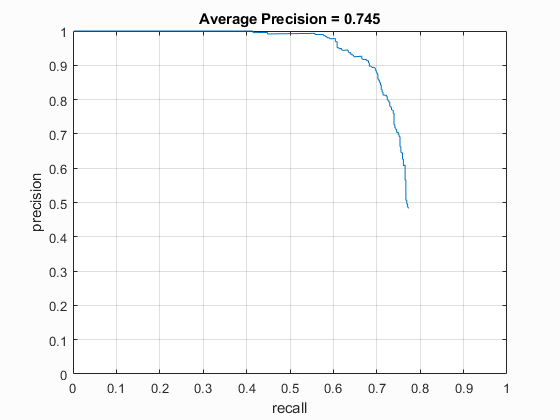
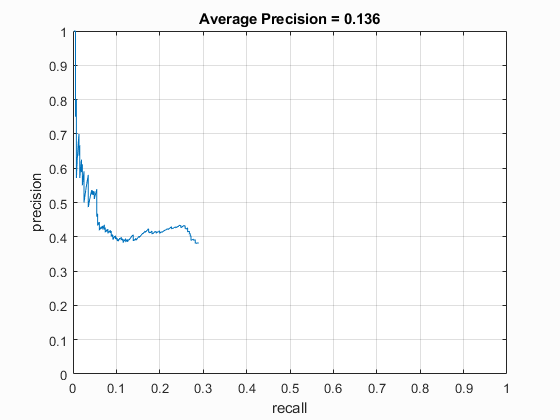
UPDATE: get_feature enhanced with OOP

diff --git a/get_features.m b/get_features.m
@@ -2,80 +2,20 @@ close all
 clear
 run('../vlfeat-0.9.21/toolbox/vl_setup')
 
+clf = Classifier;
+
 pos_imageDir = 'train_pos_images';
-pos_imageList = dir(sprintf('%s/*.jpg',pos_imageDir));
-pos_nImages = length(pos_imageList);
+[x_pos_train, pos_nImages] = clf.get_feature(pos_imageDir);
 
 valid_pos_imageDir = 'validate_pos_images';
-valid_pos_imageList = dir(sprintf('%s/*.jpg',valid_pos_imageDir));
-valid_pos_nImages = length(valid_pos_imageList);
+[x_pos_valid, valid_pos_nImages] = clf.get_feature(valid_pos_imageDir);
 
 neg_imageDir = 'train_neg_images';
-neg_imageList = dir(sprintf('%s/*.jpg',neg_imageDir));
-neg_nImages = length(neg_imageList);
+[x_neg_train, neg_nImages] = clf.get_feature(neg_imageDir);
 
 valid_neg_imageDir = 'validate_neg_images';
-valid_neg_imageList = dir(sprintf('%s/*.jpg',valid_neg_imageDir));
-valid_neg_nImages = length(valid_neg_imageList);
+[x_neg_valid, valid_neg_nImages] = clf.get_feature(valid_neg_imageDir);
 
-cellSize = 3;
-featSize = 31*12^2;
-
-x_pos_train = zeros(pos_nImages,featSize);
-for i=1:pos_nImages
-    im = im2single(imread(sprintf('%s/%s',pos_imageDir,pos_imageList(i).name)));
-    feat = vl_hog(im,cellSize);
-    x_pos_train(i,:) = feat(:);
-    fprintf('got feat for train pos image %d/%d\n',i,pos_nImages);
-%     imhog = vl_hog('render', feat);
-%     subplot(1,2,1);
-%     imshow(im);
-%     subplot(1,2,2);
-%     imshow(imhog)
-%     pause;
-end
-
-x_pos_valid = zeros(valid_pos_nImages,featSize);
-for i=1:valid_pos_nImages
-    im = im2single(imread(sprintf('%s/%s',valid_pos_imageDir,valid_pos_imageList(i).name)));
-    feat = vl_hog(im,cellSize);
-    x_pos_valid(i,:) = feat(:);
-    fprintf('got feat for valid pos image %d/%d\n',i,valid_pos_nImages);
-%     imhog = vl_hog('render', feat);
-%     subplot(1,2,1);
-%     imshow(im);
-%     subplot(1,2,2);
-%     imshow(imhog)
-%     pause;
-end
-
-x_neg_train = zeros(neg_nImages,featSize);
-for i=1:neg_nImages
-    im = im2single(imread(sprintf('%s/%s',neg_imageDir,neg_imageList(i).name)));
-    feat = vl_hog(im,cellSize);
-    x_neg_train(i,:) = feat(:);
-    fprintf('got feat for neg image %d/%d\n',i,neg_nImages);
-%     imhog = vl_hog('render', feat);
-%     subplot(1,2,1);
-%     imshow(im);
-%     subplot(1,2,2);
-%     imshow(imhog)
-%     pause;
-end
-
-x_neg_valid = zeros(valid_neg_nImages,featSize);
-for i=1:valid_neg_nImages
-    im = im2single(imread(sprintf('%s/%s',valid_neg_imageDir,valid_neg_imageList(i).name)));
-    feat = vl_hog(im,cellSize);
-    x_neg_valid(i,:) = feat(:);
-    fprintf('got feat for valid neg image %d/%d\n',i,valid_neg_nImages);
-%     imhog = vl_hog('render', feat);
-%     subplot(1,2,1);
-%     imshow(im);
-%     subplot(1,2,2);
-%     imshow(imhog)
-%     pause;
-end
 
 save('pos_neg_feats.mat','x_pos_train','x_neg_train','pos_nImages','neg_nImages')
 save('pos_neg_valid_feats.mat','x_pos_valid','x_neg_valid','valid_pos_nImages','valid_neg_nImages')

diff --git a/detect.m b/detect.m
@@ -13,8 +13,8 @@ confidences = zeros(0,1);
 image_names = cell(0,1);
 
 scale = 1.5;
-downsample = 0.9;
-cellSize = 3;
+downsample = 0.95;
+cellSize = 6;
 marg = 11;
 dim = 36;
 for i=1:nImages
@@ -27,11 +27,10 @@ for i=1:nImages
     [n, m] = size(image);    
     while scale* min(n, m) >= 10
         im = imresize(image,scale);
-        
         % generate a grid of features across the entire image. you may want to 
         % try generating features more densely (i.e., not in a grid)
         feats = vl_hog(im,cellSize);
-
+        
         % concatenate the features into 6x6 bins, and classify them (as if they
         % represent 36x36-pixel faces)
         [rows,cols,~] = size(feats);    
@@ -51,10 +50,10 @@ for i=1:nImages
 
         % get the most confident predictions 
         [~,inds] = sort(confs(:),'descend');
-        if (rows * cols) < 25
+        if (rows * cols) < 30
             inds = inds(1:floor((rows*cols))); % (use a bigger number for better recall)
         else
-            inds = inds(1:25); % (use a bigger number for better recall)
+            inds = inds(1:30); % (use a bigger number for better recall)
         end
         for n=1:numel(inds)        
             [row,col] = ind2sub([size(feats,1) size(feats,2)],inds(n));
